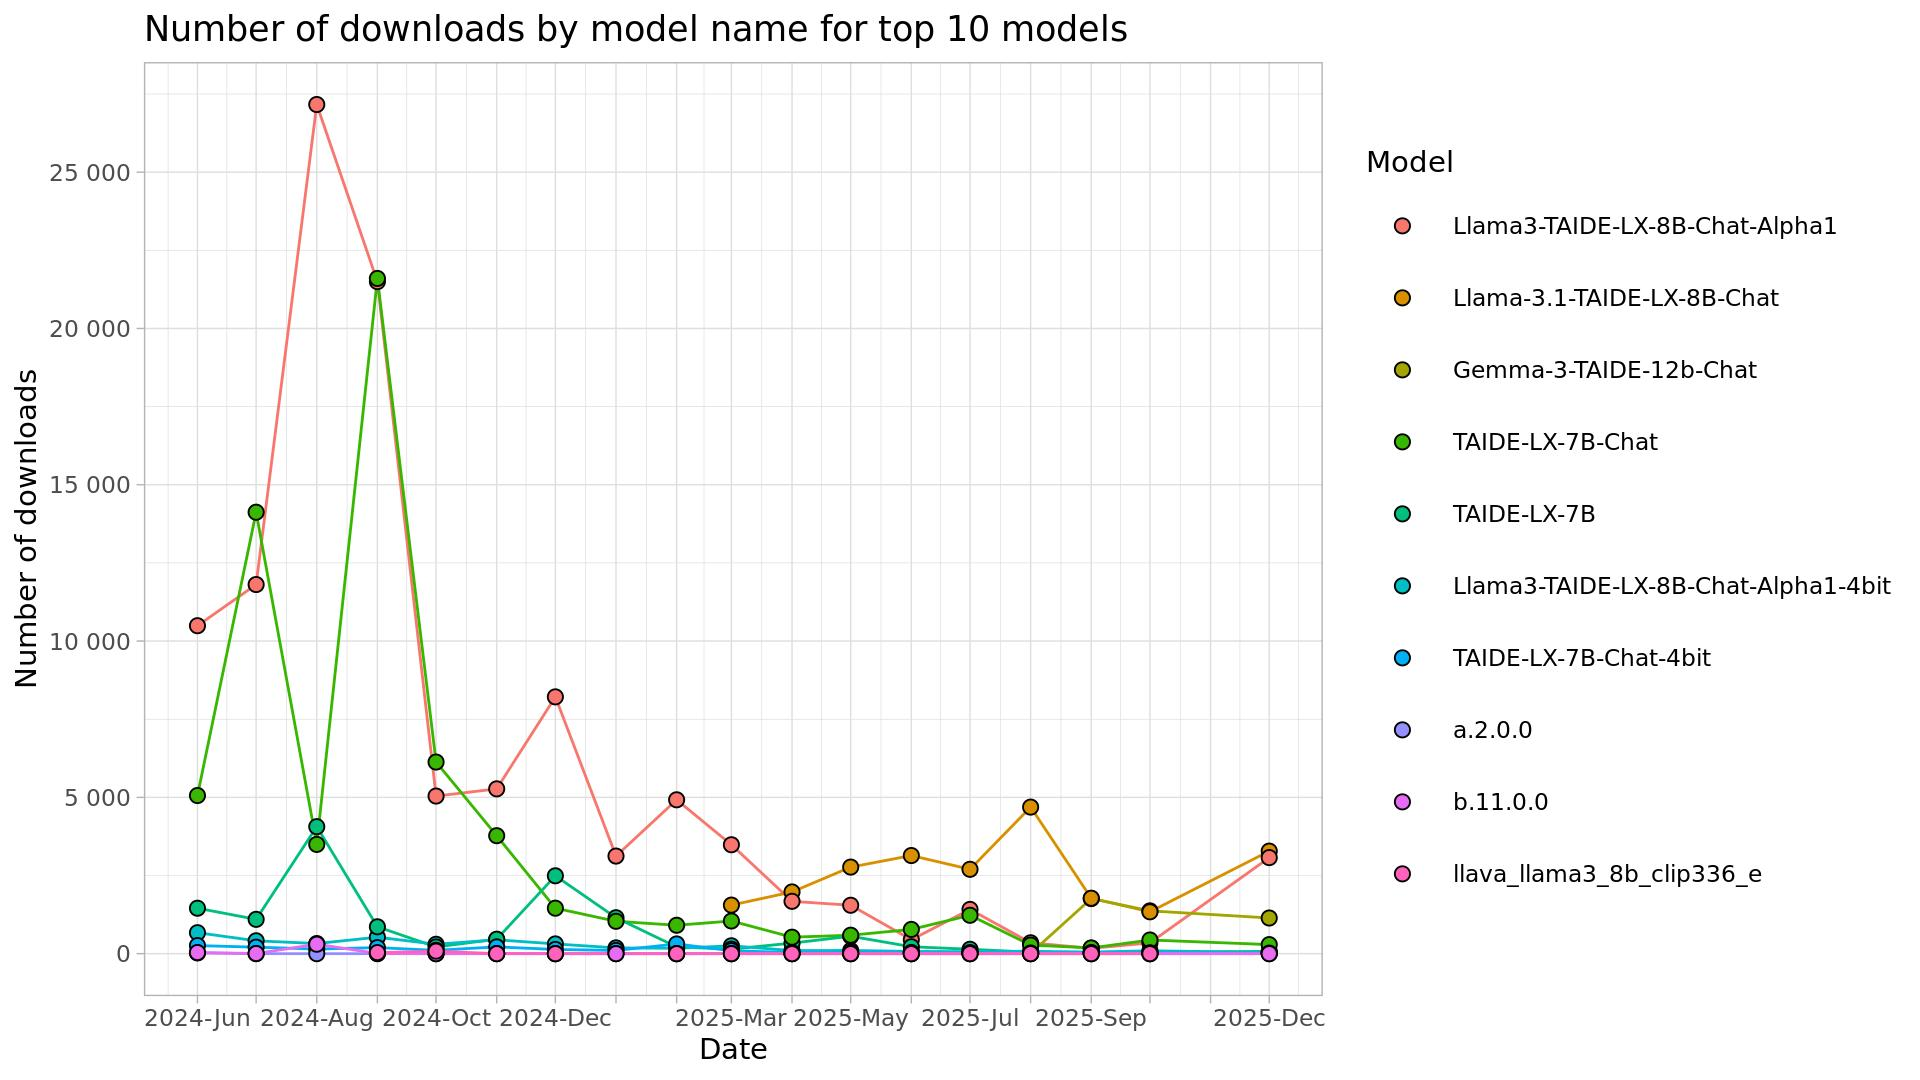
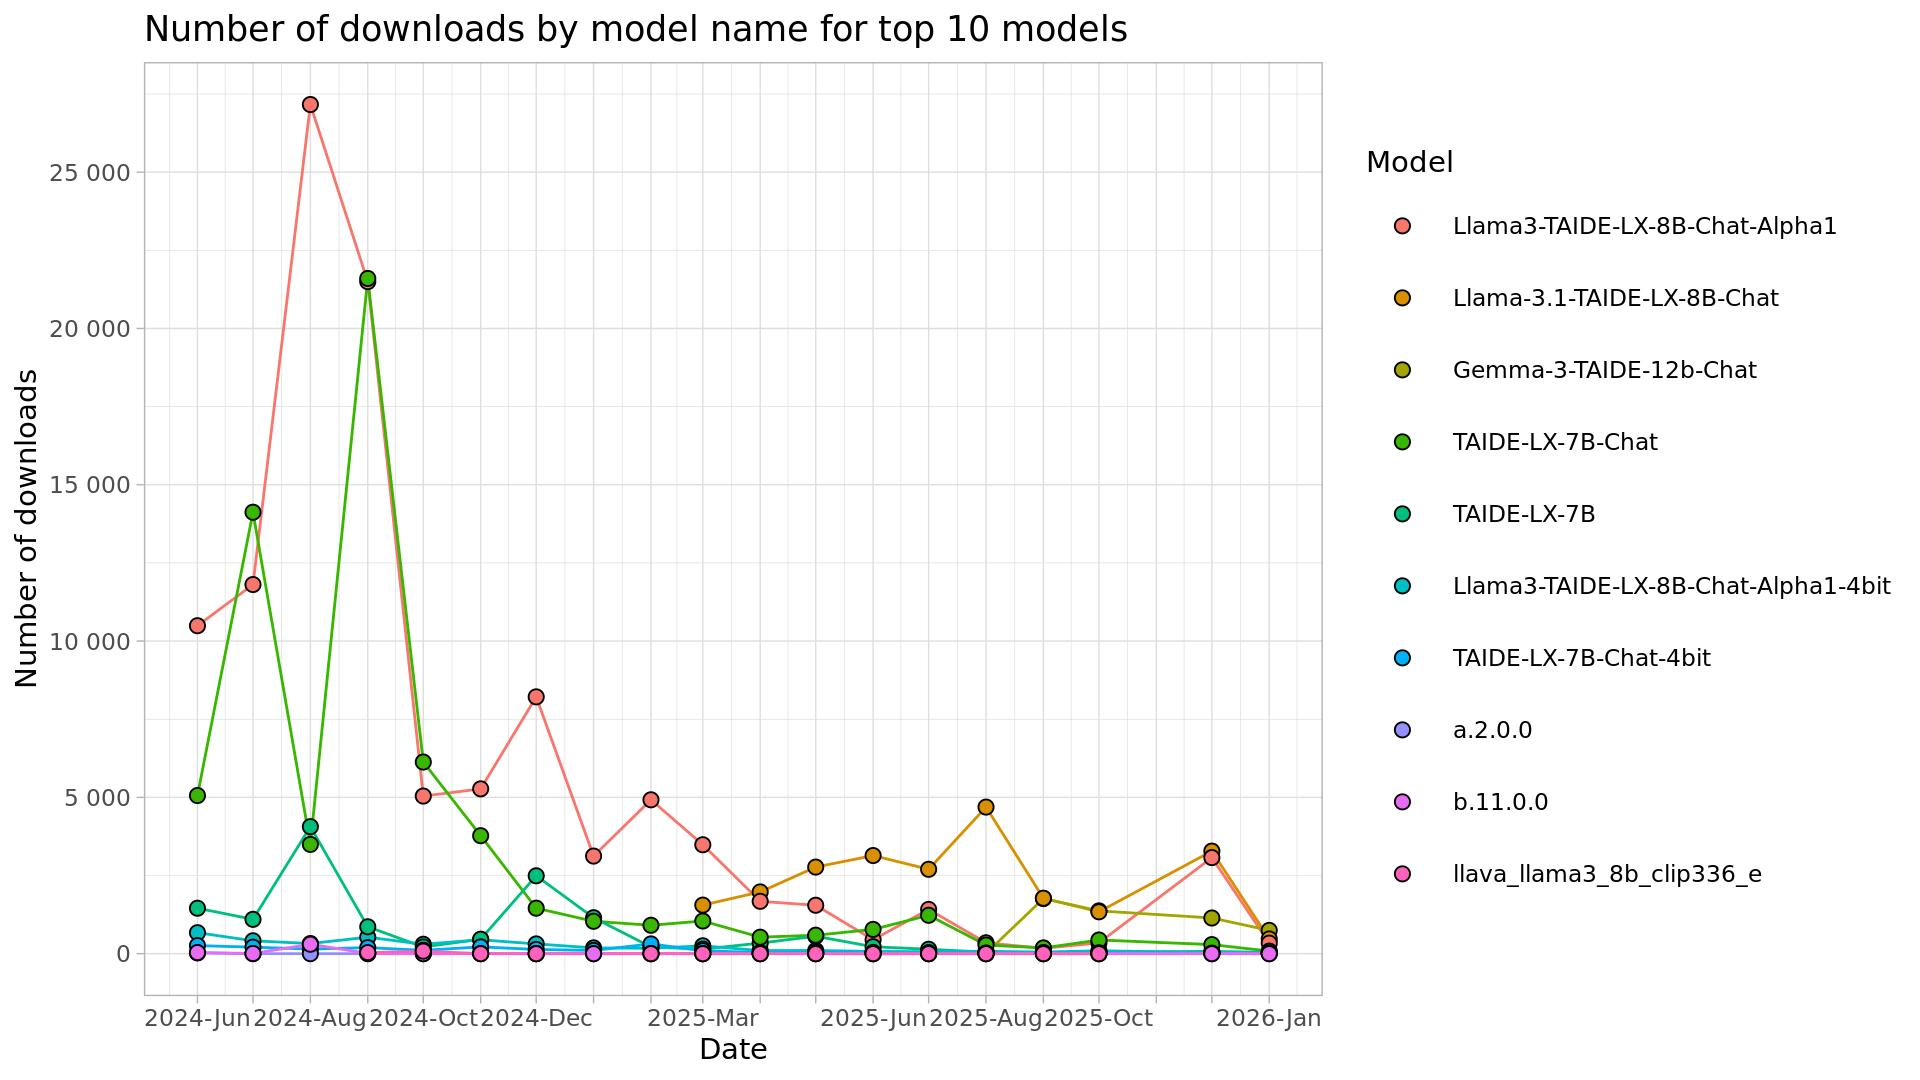
update

Changed region(s): [[0.0938, 0.0917, 0.6875, 0.9472], [0.625, 0.9167, 0.6875, 0.9472]]

diff --git a/README.md b/README.md
@@ -11,17 +11,17 @@ Script is run monthly, and a monthly `csv`-file outputted to `/data` folder.
 !["Huggingface downloads by model plot."](https://github.com/nctu6/huggingface_stats/blob/main/plots/downloads_by_model.jpg)
 
 ## Table of downloads
-|model_name                          | downloadsAllTime| 2025-12| 2025-10| 2025-09| 2025-08| 2025-07| 2025-06| 2025-05| 2025-04| 2025-03| 2025-02| 2025-01| 2024-12| 2024-11| 2024-10| 2024-09| 2024-08| 2024-07| 2024-06|
-|:-----------------------------------|----------------:|-------:|-------:|-------:|-------:|-------:|-------:|-------:|-------:|-------:|-------:|-------:|-------:|-------:|-------:|-------:|-------:|-------:|-------:|
-|Llama3-TAIDE-LX-8B-Chat-Alpha1      |           110043|    3073|     346|     171|     348|    1416|     446|    1549|    1675|    3484|    4922|    3122|    8215|    5272|    5042|   21499|   27164|   11808|   10491|
-|TAIDE-LX-7B-Chat                    |            62934|     290|     437|     184|     276|    1228|     776|     591|     527|    1045|     909|    1036|    1455|    3774|    6130|   21600|    3495|   14122|    5059|
-|Llama-3.1-TAIDE-LX-8B-Chat          |            23220|    3281|    1339|    1774|    4689|    2699|    3139|    2770|    1975|    1554|       0|       0|       0|       0|       0|       0|       0|       0|       0|
-|TAIDE-LX-7B                         |            13603|      73|      42|      27|      48|     141|     222|     558|     338|     145|     215|    1150|    2491|     463|     215|     860|    4063|    1098|    1454|
-|Gemma-3-TAIDE-12b-Chat              |             4283|    1141|    1369|    1763|      10|       0|       0|       0|       0|       0|       0|       0|       0|       0|       0|       0|       0|       0|       0|
-|Llama3-TAIDE-LX-8B-Chat-Alpha1-4bit |             4192|      37|      92|      51|      76|      63|      72|     102|      99|     252|     172|     185|     312|     444|     301|     527|     324|     412|     671|
-|TAIDE-LX-7B-Chat-4bit               |             2033|      18|      29|      37|      22|      34|      39|      40|      37|      94|     311|     104|     135|     217|     107|     194|     148|     208|     259|
-|b.11.0.0                            |              355|       0|       0|       0|       0|       0|       0|       0|       0|       0|       0|       0|       0|       5|       0|       7|     302|       5|      36|
-|llava_llama3_8b_clip336_e           |              115|       0|       0|       0|       0|       0|       0|       0|       0|       0|       0|       0|       0|       0|      81|      34|       0|       0|       0|
-|a.2.0.0                             |               24|       0|       0|       0|       0|       0|       0|       0|       0|       0|       0|       0|       0|       0|       0|       0|       0|       0|      24|
-|e.1.1.0                             |               19|       0|       0|       0|       0|       0|       0|       0|       0|       0|       0|       0|       0|       0|       0|       0|       5|       0|      14|
-|b.1.0.0                             |               15|       0|       0|       0|       0|       0|       0|       0|       0|       0|       0|       0|       0|       0|       0|       0|       0|      15|       0|
+|model_name                          | downloadsAllTime| 2026-01| 2025-12| 2025-10| 2025-09| 2025-08| 2025-07| 2025-06| 2025-05| 2025-04| 2025-03| 2025-02| 2025-01| 2024-12| 2024-11| 2024-10| 2024-09| 2024-08| 2024-07| 2024-06|
+|:-----------------------------------|----------------:|-------:|-------:|-------:|-------:|-------:|-------:|-------:|-------:|-------:|-------:|-------:|-------:|-------:|-------:|-------:|-------:|-------:|-------:|-------:|
+|Llama3-TAIDE-LX-8B-Chat-Alpha1      |           110380|     337|    3073|     346|     171|     348|    1416|     446|    1549|    1675|    3484|    4922|    3122|    8215|    5272|    5042|   21499|   27164|   11808|   10491|
+|TAIDE-LX-7B-Chat                    |            63016|      82|     290|     437|     184|     276|    1228|     776|     591|     527|    1045|     909|    1036|    1455|    3774|    6130|   21600|    3495|   14122|    5059|
+|Llama-3.1-TAIDE-LX-8B-Chat          |            23691|     471|    3281|    1339|    1774|    4689|    2699|    3139|    2770|    1975|    1554|       0|       0|       0|       0|       0|       0|       0|       0|       0|
+|TAIDE-LX-7B                         |            13642|      39|      73|      42|      27|      48|     141|     222|     558|     338|     145|     215|    1150|    2491|     463|     215|     860|    4063|    1098|    1454|
+|Gemma-3-TAIDE-12b-Chat              |             5028|     745|    1141|    1369|    1763|      10|       0|       0|       0|       0|       0|       0|       0|       0|       0|       0|       0|       0|       0|       0|
+|Llama3-TAIDE-LX-8B-Chat-Alpha1-4bit |             4220|      28|      37|      92|      51|      76|      63|      72|     102|      99|     252|     172|     185|     312|     444|     301|     527|     324|     412|     671|
+|TAIDE-LX-7B-Chat-4bit               |             2057|      24|      18|      29|      37|      22|      34|      39|      40|      37|      94|     311|     104|     135|     217|     107|     194|     148|     208|     259|
+|b.11.0.0                            |              355|       0|       0|       0|       0|       0|       0|       0|       0|       0|       0|       0|       0|       0|       5|       0|       7|     302|       5|      36|
+|llava_llama3_8b_clip336_e           |              115|       0|       0|       0|       0|       0|       0|       0|       0|       0|       0|       0|       0|       0|       0|      81|      34|       0|       0|       0|
+|a.2.0.0                             |               24|       0|       0|       0|       0|       0|       0|       0|       0|       0|       0|       0|       0|       0|       0|       0|       0|       0|       0|      24|
+|e.1.1.0                             |               19|       0|       0|       0|       0|       0|       0|       0|       0|       0|       0|       0|       0|       0|       0|       0|       0|       5|       0|      14|
+|b.1.0.0                             |               15|       0|       0|       0|       0|       0|       0|       0|       0|       0|       0|       0|       0|       0|       0|       0|       0|       0|      15|       0|
